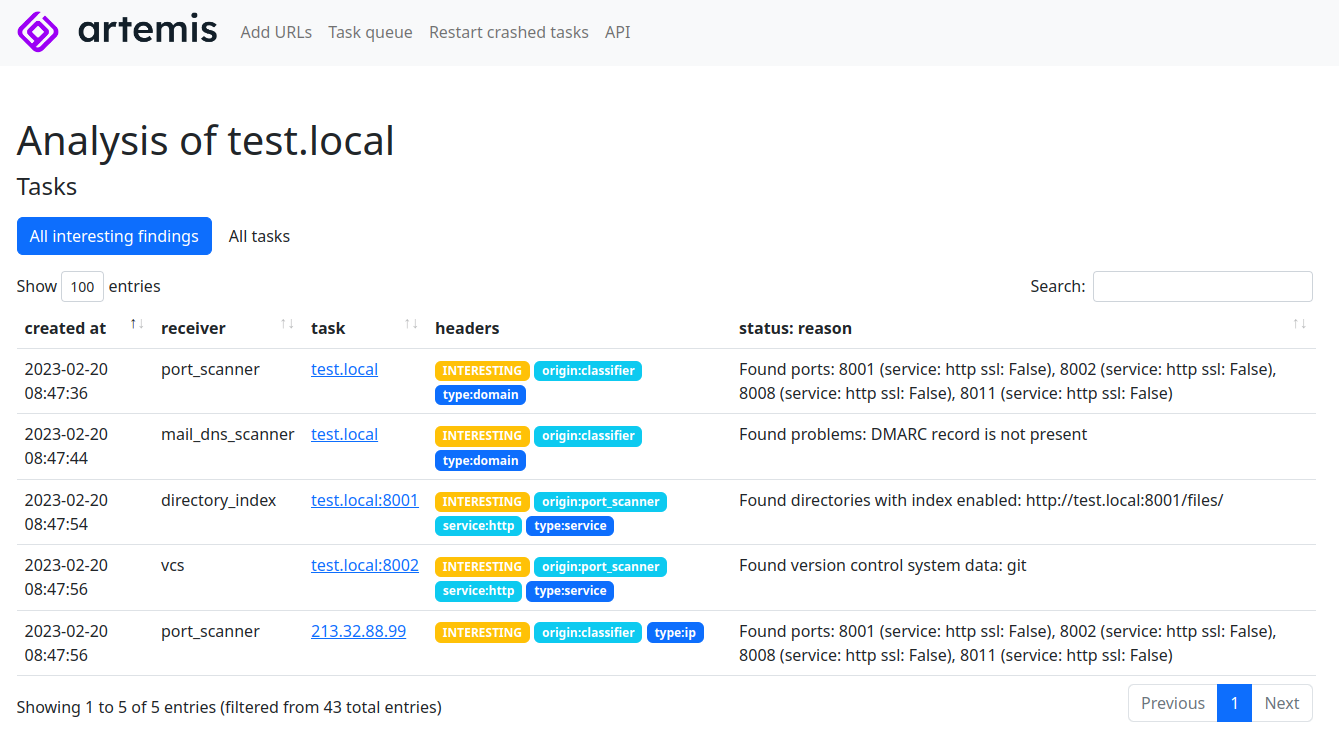
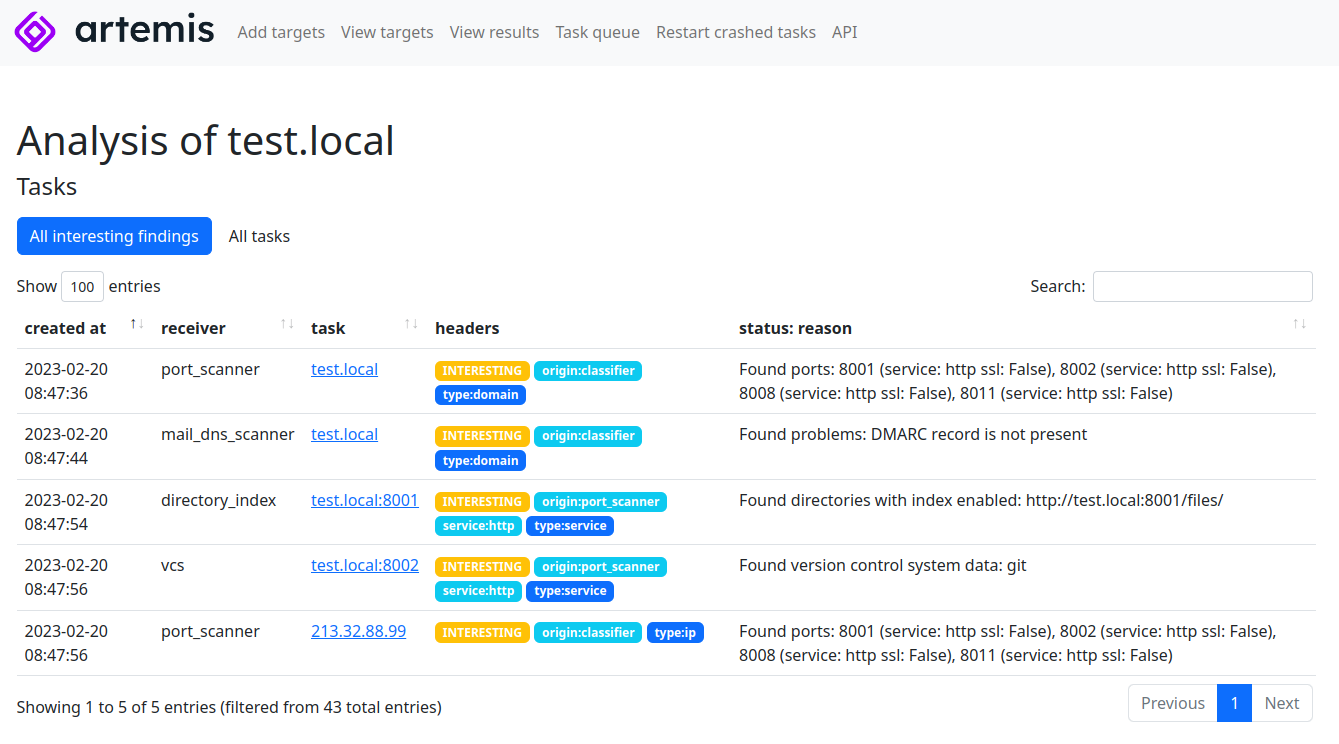
UX fixes (#220)
* UX fixes

* Screenshot fix

* Target format

Changed region(s): [[0.0, 0.0, 0.643, 0.0618]]

diff --git a/artemis/frontend.py b/artemis/frontend.py
@@ -51,12 +51,12 @@ def get_add_form(request: Request) -> Response:
 
 @router.post("/add", include_in_schema=False)
 def post_add(
-    urls: Optional[str] = Form(None),
+    targets: Optional[str] = Form(None),
     file: Optional[bytes] = File(None),
 ) -> Response:
     total_list: List[str] = []
-    if urls:
-        total_list += (x.strip() for x in urls.split())
+    if targets:
+        total_list += (x.strip() for x in targets.split())
     if file:
         total_list += (x.strip() for x in file.decode().split())
     create_tasks(total_list)
@@ -122,7 +122,7 @@ def get_results(request: Request, task_filter: Optional[TaskFilter] = None) -> R
         "task_list.jinja2",
         {
             "request": request,
-            "title": "All task results",
+            "title": "Results",
             "api_url": "/api/task-results?" + urllib.parse.urlencode(api_url_parameters),
             "task_filter": task_filter,
         },

diff --git a/test/e2e/base.py b/test/e2e/base.py
@@ -25,7 +25,7 @@ class BaseE2ETestCase(TestCase):
         self._wait_for_backend()
 
     def submit_tasks(self, tasks: List[str]) -> None:
-        requests.post(BACKEND_URL + "add", data={"urls": "\n".join(tasks)})
+        requests.post(BACKEND_URL + "add", data={"targets": "\n".join(tasks)})
 
     def wait_for_tasks_finished(
         self, retry_time_seconds: float = RETRY_TIME_SECONDS, num_retries: int = NUM_RETRIES

diff --git a/docs/quick-start.rst b/docs/quick-start.rst
@@ -33,11 +33,11 @@ After that you should be able to access the Artemis dashboard at ``localhost:500
 Adding targets to scan
 ----------------------
 
-Select ``Add URLs`` from the top navigation bar. Artemis takes input in the form
+Select ``Add targets`` from the top navigation bar. Artemis takes input in the form
 of entries separated with newlines. No specific format is required, Artemis works with
 both IPs and domains and should parse both ``1.1.1.1`` and ``hxxps://cert.pl``.
 
 Viewing results
 ---------------
 
-Results are available on the Artemis homepage (click the Artemis logo in the top navbar).
+To view results, click the ``View results`` link in the top navigation bar.
